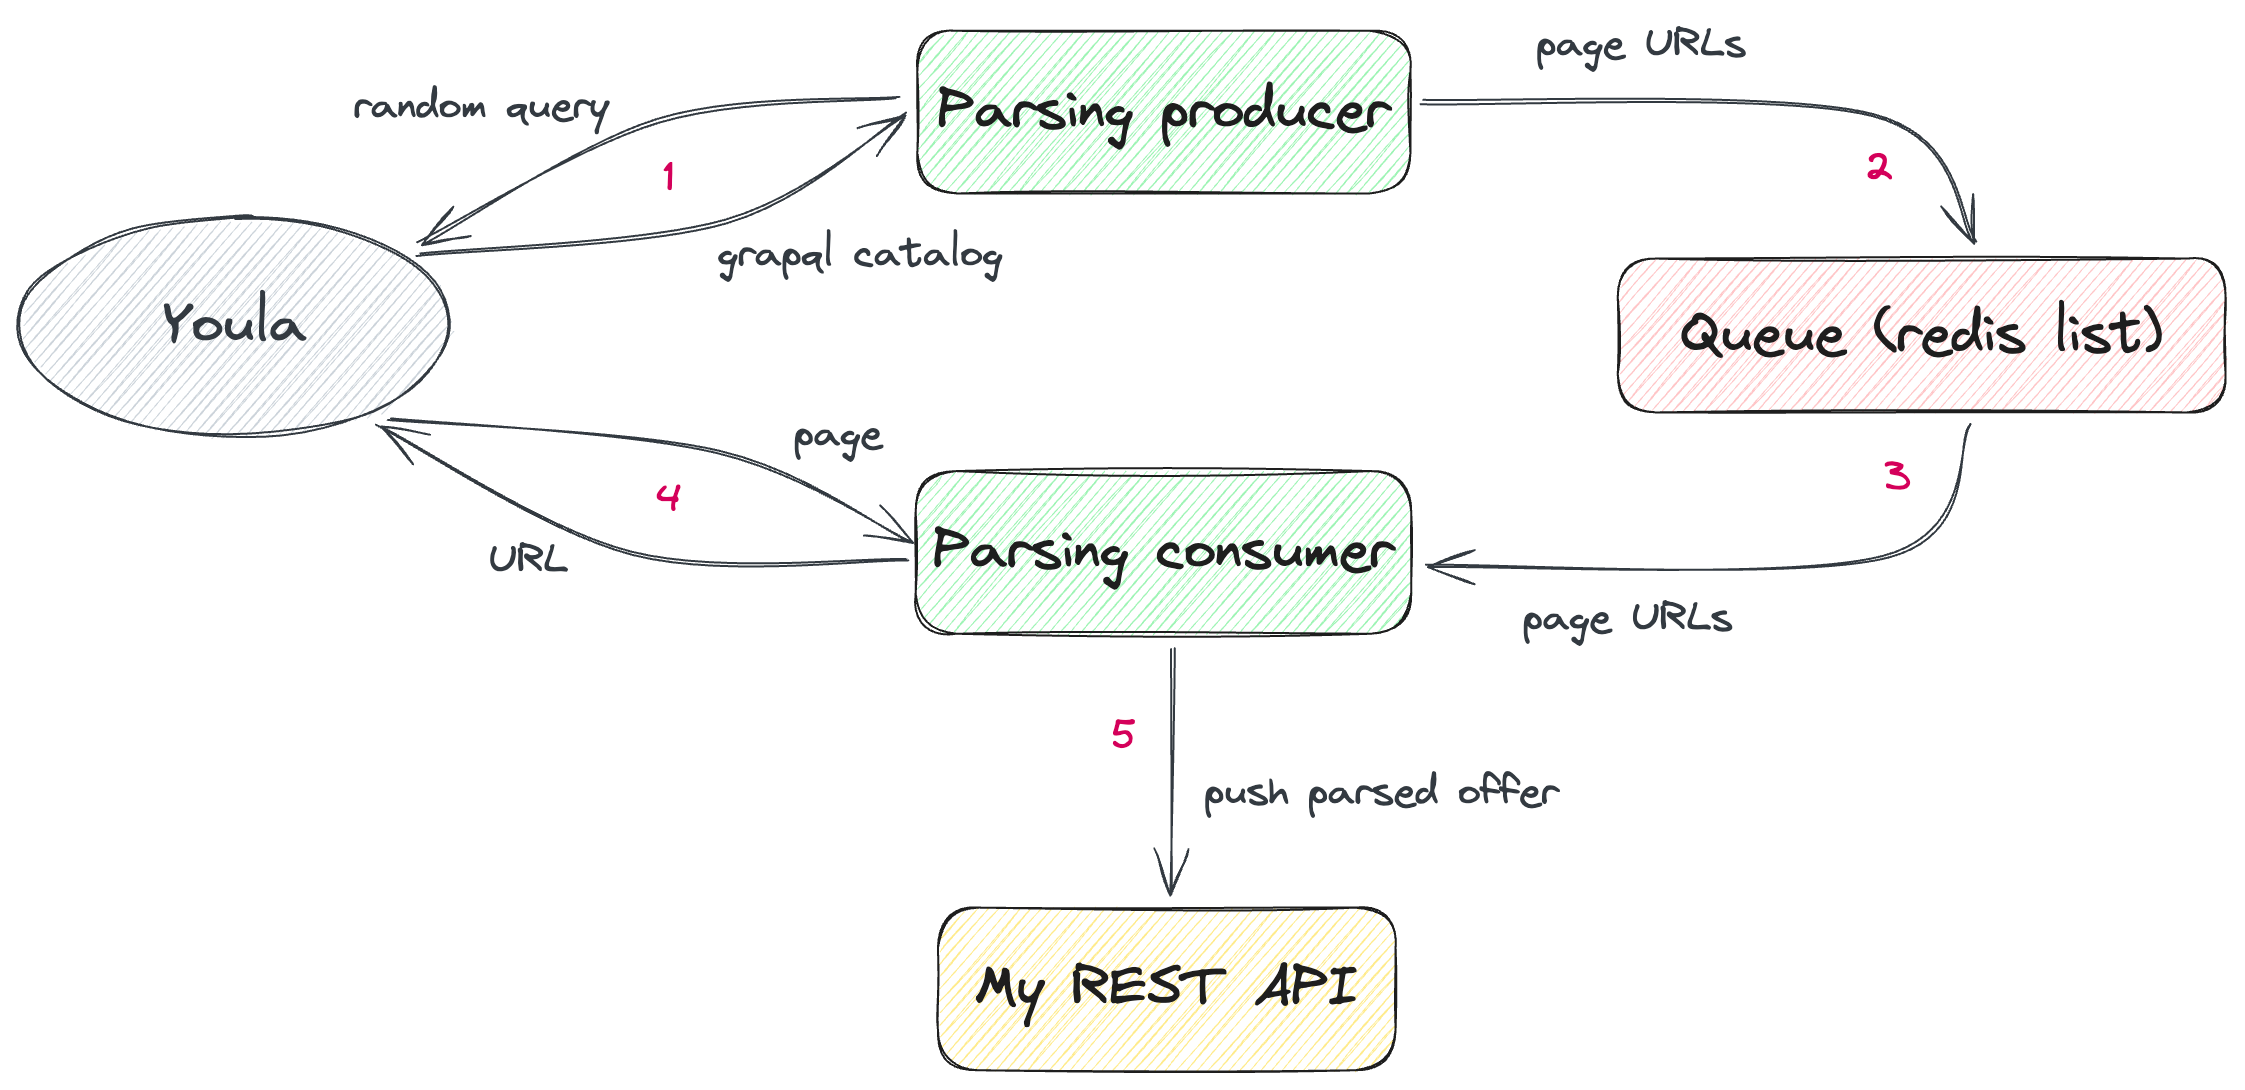
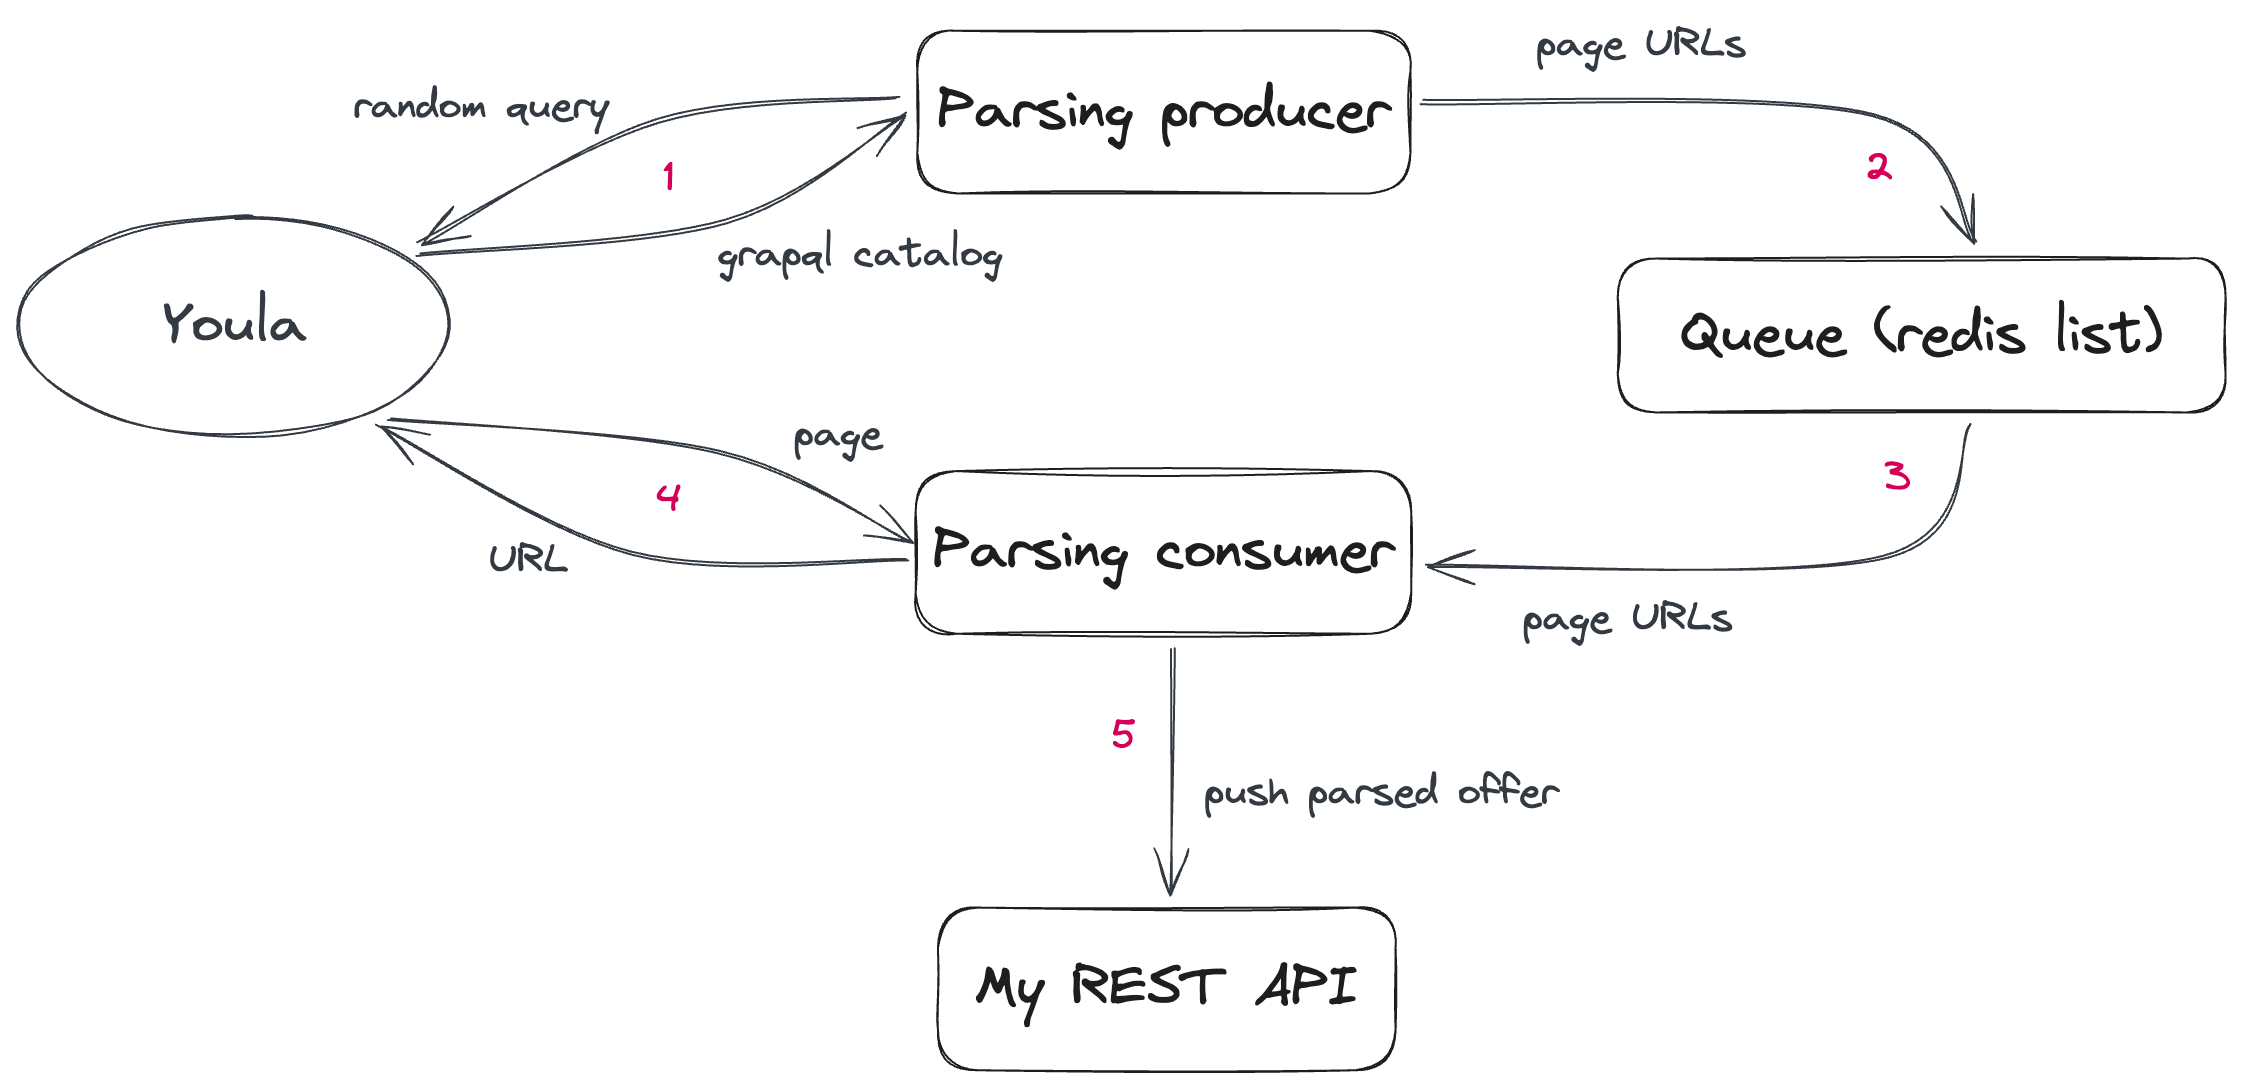
Add system overview (#50)

diff --git a/README.md b/README.md
@@ -1,5 +1,11 @@
 # OffersService
 
+## Overview
+
+The classified platform such as Craigslist or Avito that provides the opportunity for peer-to-peer exchanges of goods and services.
+
+<img src="docs/overview-arch.png" width="600" alt="overview-arch"/>
+
 ## How to launch
 
 Run one of the sbt commands below to start the selected component locally with connection to other services in the Cloud.  
